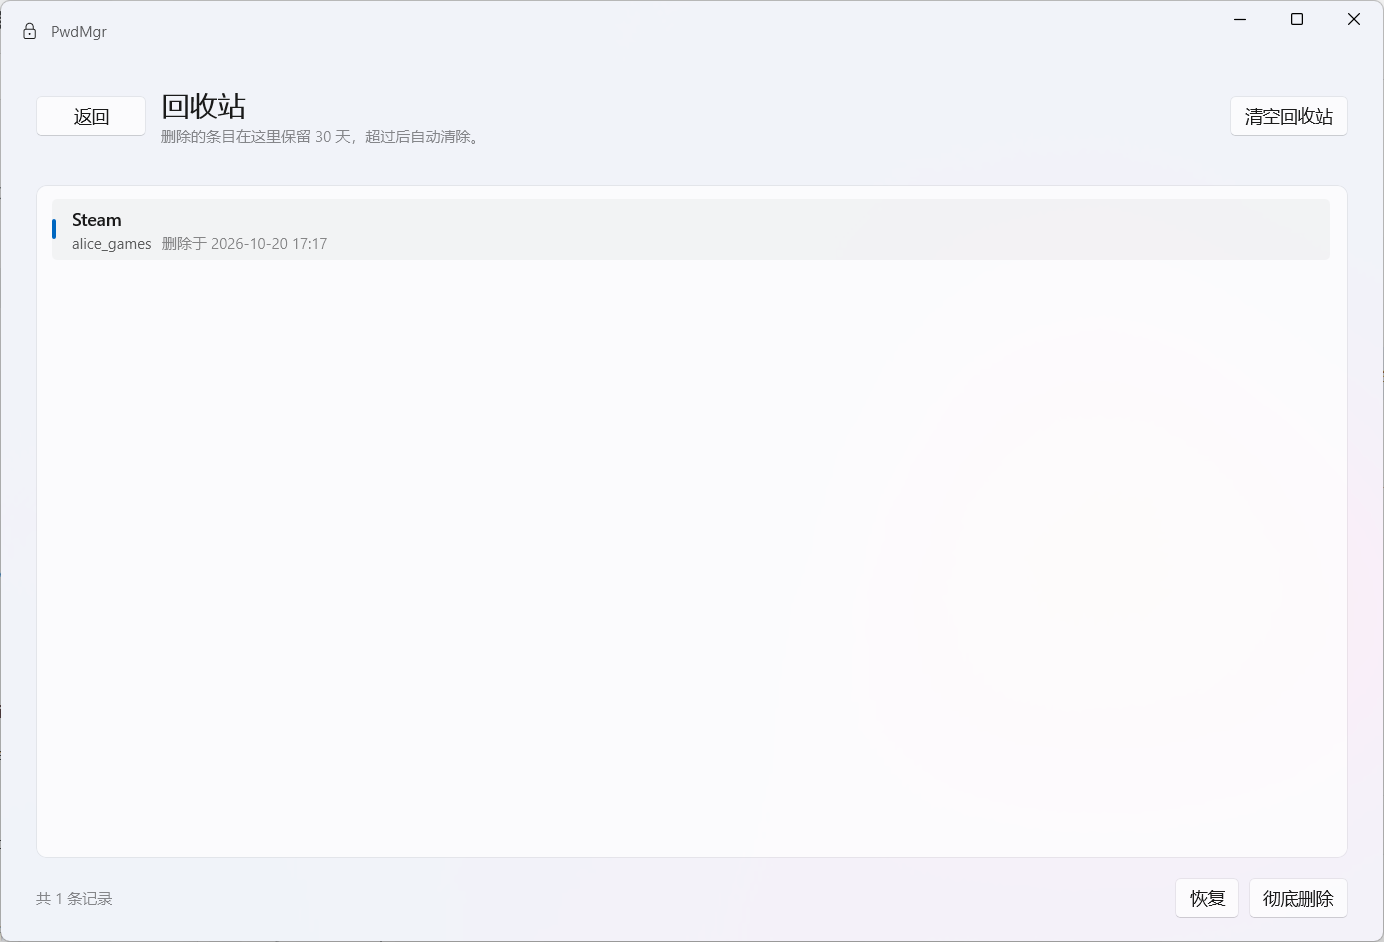
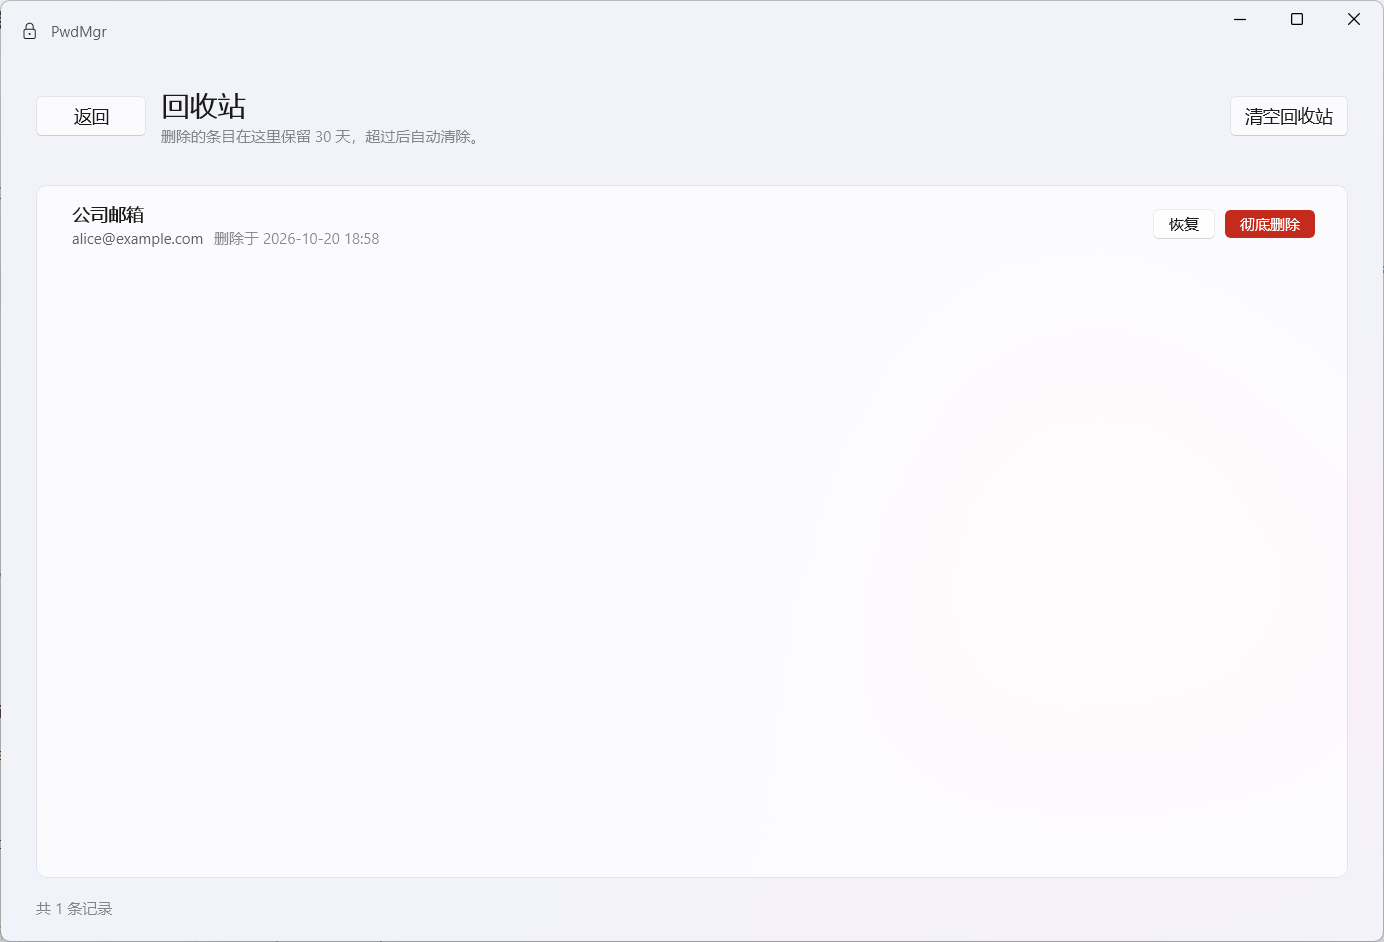
删除操作移到列表项内并加红色确认框；回收站操作同样内联

diff --git a/src/PwdMgr.App/Views/TrashPage.xaml b/src/PwdMgr.App/Views/TrashPage.xaml
@@ -38,25 +38,44 @@
 
         <Border Grid.Row="2" Style="{StaticResource CardStyle}" Padding="8">
             <Grid>
-                <ListView
-                    x:Name="TrashList"
-                    SelectionMode="Single"
-                    SelectionChanged="OnSelectionChanged">
+                <ListView x:Name="TrashList" SelectionMode="None">
                     <ListView.ItemTemplate>
                         <DataTemplate x:DataType="vm:TrashItemView">
-                            <StackPanel Padding="4,8" Spacing="2">
-                                <TextBlock Text="{x:Bind Title}" FontWeight="SemiBold" TextTrimming="CharacterEllipsis" />
-                                <StackPanel Orientation="Horizontal" Spacing="8">
+                            <Grid ColumnDefinitions="*,Auto" ColumnSpacing="8" Padding="4,4">
+                                <StackPanel Spacing="2" VerticalAlignment="Center">
                                     <TextBlock
-                                        Text="{x:Bind Username}"
-                                        FontSize="12"
-                                        Foreground="{ThemeResource TextFillColorSecondaryBrush}" />
-                                    <TextBlock
-                                        Text="{x:Bind DeletedText}"
-                                        FontSize="12"
-                                        Foreground="{ThemeResource TextFillColorTertiaryBrush}" />
+                                        Text="{x:Bind Title}"
+                                        FontWeight="SemiBold"
+                                        TextTrimming="CharacterEllipsis" />
+                                    <StackPanel Orientation="Horizontal" Spacing="8">
+                                        <TextBlock
+                                            Text="{x:Bind Username}"
+                                            FontSize="12"
+                                            Foreground="{ThemeResource TextFillColorSecondaryBrush}" />
+                                        <TextBlock
+                                            Text="{x:Bind DeletedText}"
+                                            FontSize="12"
+                                            Foreground="{ThemeResource TextFillColorTertiaryBrush}" />
+                                    </StackPanel>
                                 </StackPanel>
-                            </StackPanel>
+                                <StackPanel
+                                    Grid.Column="1"
+                                    Orientation="Horizontal"
+                                    Spacing="8"
+                                    VerticalAlignment="Center">
+                                    <Button
+                                        Content="恢复"
+                                        Padding="12,3"
+                                        FontSize="12"
+                                        Click="OnRestoreClick" />
+                                    <Button
+                                        Content="彻底删除"
+                                        Style="{StaticResource DestructiveButtonStyle}"
+                                        Padding="12,3"
+                                        FontSize="12"
+                                        Click="OnPurgeClick" />
+                                </StackPanel>
+                            </Grid>
                         </DataTemplate>
                     </ListView.ItemTemplate>
                 </ListView>
@@ -78,22 +97,6 @@
             </Grid>
         </Border>
 
-        <Grid Grid.Row="3" ColumnDefinitions="*,Auto" ColumnSpacing="8">
-            <TextBlock x:Name="StatusText" Style="{StaticResource HintTextStyle}" VerticalAlignment="Center" />
-            <StackPanel Grid.Column="1" Orientation="Horizontal" Spacing="8">
-                <Button
-                    x:Name="RestoreButton"
-                    AutomationProperties.AutomationId="RestoreButton"
-                    Content="恢复"
-                    IsEnabled="False"
-                    Click="OnRestoreClick" />
-                <Button
-                    x:Name="PurgeButton"
-                    AutomationProperties.AutomationId="PurgeButton"
-                    Content="彻底删除"
-                    IsEnabled="False"
-                    Click="OnPurgeClick" />
-            </StackPanel>
-        </Grid>
+        <TextBlock x:Name="StatusText" Grid.Row="3" Style="{StaticResource HintTextStyle}" />
     </Grid>
 </Page>

diff --git a/src/PwdMgr.App/Views/VaultPage.xaml b/src/PwdMgr.App/Views/VaultPage.xaml
@@ -97,17 +97,28 @@
                         SelectionChanged="OnItemSelectionChanged">
                         <ListView.ItemTemplate>
                             <DataTemplate x:DataType="models:PasswordItem">
-                                <StackPanel Padding="4,8" Spacing="2">
-                                    <TextBlock
-                                        Text="{x:Bind Title}"
-                                        FontWeight="SemiBold"
-                                        TextTrimming="CharacterEllipsis" />
-                                    <TextBlock
-                                        Text="{x:Bind Username}"
+                                <Grid ColumnDefinitions="*,Auto" ColumnSpacing="8" Padding="4,4">
+                                    <StackPanel Spacing="2" VerticalAlignment="Center">
+                                        <TextBlock
+                                            Text="{x:Bind Title}"
+                                            FontWeight="SemiBold"
+                                            TextTrimming="CharacterEllipsis" />
+                                        <TextBlock
+                                            Text="{x:Bind Username}"
+                                            FontSize="12"
+                                            Foreground="{ThemeResource TextFillColorSecondaryBrush}"
+                                            TextTrimming="CharacterEllipsis" />
+                                    </StackPanel>
+                                    <Button
+                                        Grid.Column="1"
+                                        Content="删除"
+                                        Style="{StaticResource DestructiveButtonStyle}"
+                                        Padding="10,3"
                                         FontSize="12"
-                                        Foreground="{ThemeResource TextFillColorSecondaryBrush}"
-                                        TextTrimming="CharacterEllipsis" />
-                                </StackPanel>
+                                        VerticalAlignment="Center"
+                                        Click="OnDeleteItemClick"
+                                        ToolTipService.ToolTip="删除后可在回收站恢复" />
+                                </Grid>
                             </DataTemplate>
                         </ListView.ItemTemplate>
                     </ListView>
@@ -264,16 +275,10 @@
                             BorderThickness="0,1,0,0"
                             BorderBrush="{ThemeResource DividerStrokeColorDefaultBrush}"
                             Visibility="Collapsed">
-                            <Grid ColumnDefinitions="Auto,*,Auto">
-                                <Button
-                                    x:Name="DeleteButton"
-                                    AutomationProperties.AutomationId="DeleteButton"
-                                    Content="移入回收站"
-                                    Click="OnDeleteClick"
-                                    Visibility="Collapsed" />
+                            <Grid ColumnDefinitions="*,Auto">
                                 <StackPanel
                                     x:Name="SaveActions"
-                                    Grid.Column="2"
+                                    Grid.Column="1"
                                     Orientation="Horizontal"
                                     Spacing="8"
                                     Visibility="Collapsed">

diff --git a/src/PwdMgr.App/App.xaml b/src/PwdMgr.App/App.xaml
@@ -45,6 +45,54 @@
                 <Setter Property="Foreground" Value="{ThemeResource TextFillColorTertiaryBrush}" />
                 <Setter Property="TextWrapping" Value="Wrap" />
             </Style>
+
+            <!-- 危险操作按钮：红底白字，悬停/按下用透明度区分（默认模板会覆盖背景色，所以自带模板） -->
+            <Style x:Key="DestructiveButtonStyle" TargetType="Button">
+                <Setter Property="Background" Value="#C42B1C" />
+                <Setter Property="Foreground" Value="White" />
+                <Setter Property="BorderThickness" Value="0" />
+                <Setter Property="CornerRadius" Value="4" />
+                <Setter Property="Padding" Value="14,6" />
+                <Setter Property="HorizontalContentAlignment" Value="Center" />
+                <Setter Property="VerticalContentAlignment" Value="Center" />
+                <Setter Property="Template">
+                    <Setter.Value>
+                        <ControlTemplate TargetType="Button">
+                            <Grid
+                                x:Name="Root"
+                                Background="{TemplateBinding Background}"
+                                CornerRadius="{TemplateBinding CornerRadius}">
+                                <ContentPresenter
+                                    Padding="{TemplateBinding Padding}"
+                                    HorizontalAlignment="Center"
+                                    VerticalAlignment="Center"
+                                    Content="{TemplateBinding Content}"
+                                    Foreground="{TemplateBinding Foreground}" />
+                                <VisualStateManager.VisualStateGroups>
+                                    <VisualStateGroup x:Name="CommonStates">
+                                        <VisualState x:Name="Normal" />
+                                        <VisualState x:Name="PointerOver">
+                                            <VisualState.Setters>
+                                                <Setter Target="Root.Opacity" Value="0.9" />
+                                            </VisualState.Setters>
+                                        </VisualState>
+                                        <VisualState x:Name="Pressed">
+                                            <VisualState.Setters>
+                                                <Setter Target="Root.Opacity" Value="0.8" />
+                                            </VisualState.Setters>
+                                        </VisualState>
+                                        <VisualState x:Name="Disabled">
+                                            <VisualState.Setters>
+                                                <Setter Target="Root.Opacity" Value="0.4" />
+                                            </VisualState.Setters>
+                                        </VisualState>
+                                    </VisualStateGroup>
+                                </VisualStateManager.VisualStateGroups>
+                            </Grid>
+                        </ControlTemplate>
+                    </Setter.Value>
+                </Setter>
+            </Style>
         </ResourceDictionary>
     </Application.Resources>
 </Application>

diff --git a/src/PwdMgr.App/Views/TrashPage.xaml.cs b/src/PwdMgr.App/Views/TrashPage.xaml.cs
@@ -34,16 +34,14 @@ public sealed partial class TrashPage : Page
 
     private void OnBackClick(object sender, RoutedEventArgs e) => App.Shell.NavigateBackToVault();
 
-    private void OnSelectionChanged(object sender, SelectionChangedEventArgs e) => UpdateActionState();
-
     private async void OnRestoreClick(object sender, RoutedEventArgs e)
     {
-        if (_session is null || TrashList.SelectedItem is not TrashItemView selected)
+        if (_session is null || sender is not FrameworkElement { DataContext: TrashItemView item })
         {
             return;
         }
 
-        if (!_session.Document.Restore(selected.Id))
+        if (!_session.Document.Restore(item.Id))
         {
             Reload();
             return;
@@ -55,14 +53,14 @@ public sealed partial class TrashPage : Page
 
     private async void OnPurgeClick(object sender, RoutedEventArgs e)
     {
-        if (_session is null || TrashList.SelectedItem is not TrashItemView selected)
+        if (_session is null || sender is not FrameworkElement { DataContext: TrashItemView item })
         {
             return;
         }
 
         var confirmed = await ConfirmAsync(
             "彻底删除这条记录？",
-            $"“{selected.Title}”将被永久删除，无法恢复。",
+            $"“{item.Title}”将被永久删除，无法恢复。",
             "彻底删除");
 
         if (!confirmed)
@@ -70,7 +68,7 @@ public sealed partial class TrashPage : Page
             return;
         }
 
-        _session.Document.Purge(selected.Id);
+        _session.Document.Purge(item.Id);
         await SaveOrReportAsync();
         Reload();
     }
@@ -119,6 +117,7 @@ public sealed partial class TrashPage : Page
         }
     }
 
+    /// <summary>二次确认。确认按钮用红色，取消用默认（次要）样式，且不设默认按钮。</summary>
     private async Task<bool> ConfirmAsync(string title, string message, string primaryText)
     {
         var dialog = new ContentDialog
@@ -127,8 +126,9 @@ public sealed partial class TrashPage : Page
             Title = title,
             Content = message,
             PrimaryButtonText = primaryText,
+            PrimaryButtonStyle = (Style)Application.Current.Resources["DestructiveButtonStyle"],
             CloseButtonText = "取消",
-            DefaultButton = ContentDialogButton.Close,
+            DefaultButton = ContentDialogButton.None,
         };
 
         return await dialog.ShowAsync() == ContentDialogResult.Primary;
@@ -149,15 +149,6 @@ public sealed partial class TrashPage : Page
 
         StatusText.Text = _items.Count == 0 ? "回收站是空的" : $"共 {_items.Count} 条记录";
         EmptyPanel.Visibility = _items.Count == 0 ? Visibility.Visible : Visibility.Collapsed;
-        UpdateActionState();
-    }
-
-    private void UpdateActionState()
-    {
-        var hasSelection = TrashList.SelectedItem is TrashItemView;
-
-        RestoreButton.IsEnabled = hasSelection;
-        PurgeButton.IsEnabled = hasSelection;
         EmptyTrashButton.IsEnabled = _items.Count > 0;
     }
 }

diff --git a/src/PwdMgr.App/Views/VaultPage.xaml.cs b/src/PwdMgr.App/Views/VaultPage.xaml.cs
@@ -285,7 +285,8 @@ public sealed partial class VaultPage : Page
             copied ? InfoBarSeverity.Success : InfoBarSeverity.Error);
     }
 
-    private async Task<bool> ConfirmAsync(string title, string message, string primaryText)
+    /// <summary>二次确认。destructive 为 true 时确认按钮用红色（删除类操作），且不设默认按钮。</summary>
+    private async Task<bool> ConfirmAsync(string title, string message, string primaryText, bool destructive = false)
     {
         var dialog = new ContentDialog
         {
@@ -294,8 +295,13 @@ public sealed partial class VaultPage : Page
             Content = message,
             PrimaryButtonText = primaryText,
             CloseButtonText = "取消",
-            DefaultButton = ContentDialogButton.Close,
+            DefaultButton = destructive ? ContentDialogButton.None : ContentDialogButton.Primary,
         };
+
+        if (destructive)
+        {
+            dialog.PrimaryButtonStyle = (Style)Application.Current.Resources["DestructiveButtonStyle"];
+        }
 
         return await dialog.ShowAsync() == ContentDialogResult.Primary;
     }
@@ -328,18 +334,34 @@ public sealed partial class VaultPage : Page
         App.Shell.NavigateToTrash();
     }
 
-    private async void OnDeleteClick(object sender, RoutedEventArgs e)
+    private async void OnDeleteItemClick(object sender, RoutedEventArgs e)
     {
-        if (_session is null || _currentItem is null)
+        if (_session is null || sender is not FrameworkElement { DataContext: PasswordItem item })
         {
             return;
         }
 
-        var item = _currentItem;
+        if (!await SaveCurrentAsync(allowDiscardEmptyDraft: true))
+        {
+            return;
+        }
+
+        var confirmed = await ConfirmAsync(
+            "删除这条记录？",
+            $"“{item.Title}”会被移到回收站，可以再恢复。",
+            "删除",
+            destructive: true);
+
+        if (!confirmed)
+        {
+            return;
+        }
+
         SaveErrorBar.IsOpen = false;
 
         if (!_session.Document.MoveToTrash(item.Id))
         {
+            RefreshList(_currentItem?.Id);
             return;
         }
 
@@ -351,10 +373,11 @@ public sealed partial class VaultPage : Page
         {
             _session.Document.Restore(item.Id);
             ShowError(ex.Message);
+            RefreshList(_currentItem?.Id);
             return;
         }
 
-        RefreshList(null);
+        RefreshList(ReferenceEquals(_currentItem, item) ? null : _currentItem?.Id);
     }
 
     private async void OnSearchChanged(object sender, TextChangedEventArgs e)
@@ -638,7 +661,6 @@ public sealed partial class VaultPage : Page
         var hasDetail = _isDraft || _currentItem is not null;
 
         ActionBar.Visibility = hasDetail ? Visibility.Visible : Visibility.Collapsed;
-        DeleteButton.Visibility = hasDetail && !_isDraft ? Visibility.Visible : Visibility.Collapsed;
         SaveActions.Visibility = _isDraft || _isDirty ? Visibility.Visible : Visibility.Collapsed;
     }
 

diff --git a/docs/技术方案-v1.md b/docs/技术方案-v1.md
@@ -679,3 +679,15 @@ M5 交付：备份、自检、从备份恢复、错误提示与互斥提示。
 ### 27.1 自定义字符排除空格
 
 按反馈补充：自定义字符里的空白字符（普通空格、制表符、全角空格等）与控制字符一律丢弃，不再进入字符池；提示文字也写明“空格会被忽略”。新增用例 Generate_CustomCharactersExcludeWhitespace 验证 " A\tB　C " 只保留 ABC 且生成的密码里没有空白，Core 测试共 **76** 个通过。
+
+---
+
+## 28. 删除操作改为列表项内 + 危险色确认框
+
+按反馈调整：
+
+- **主界面**：删除按钮从详情底部移到每个列表项右侧（右对齐），文字“移入回收站”改为“删除”，红底白字；点击弹确认框“删除这条记录？”，确认按钮红色、取消按钮中性色，且不设默认按钮（避免回车误删）。详情底部只保留“保存修改 / 放弃修改”。
+- **回收站**：恢复与彻底删除也移到列表项内（右对齐），彻底删除用红色；“清空回收站”仍在页头。彻底删除、清空回收站都会弹确认框，确认按钮红色、取消按钮中性色。
+- 新增 DestructiveButtonStyle（App.xaml）：红底白字，自带 ControlTemplate，悬停/按下用透明度变化，避免默认模板把背景换成灰色。
+- 确认框的 DefaultButton：危险操作用 None（回车不触发），非危险操作仍用 Primary。
+- 验证（UI 自动化）：列表项“删除”按钮 4 个；点删除弹确认框、取消后条目仍在（仍 4 个）、确认后变 3 个；回收站列表项有“恢复”“彻底删除”；彻底删除与清空回收站都弹确认框；恢复后回到 4 个。
